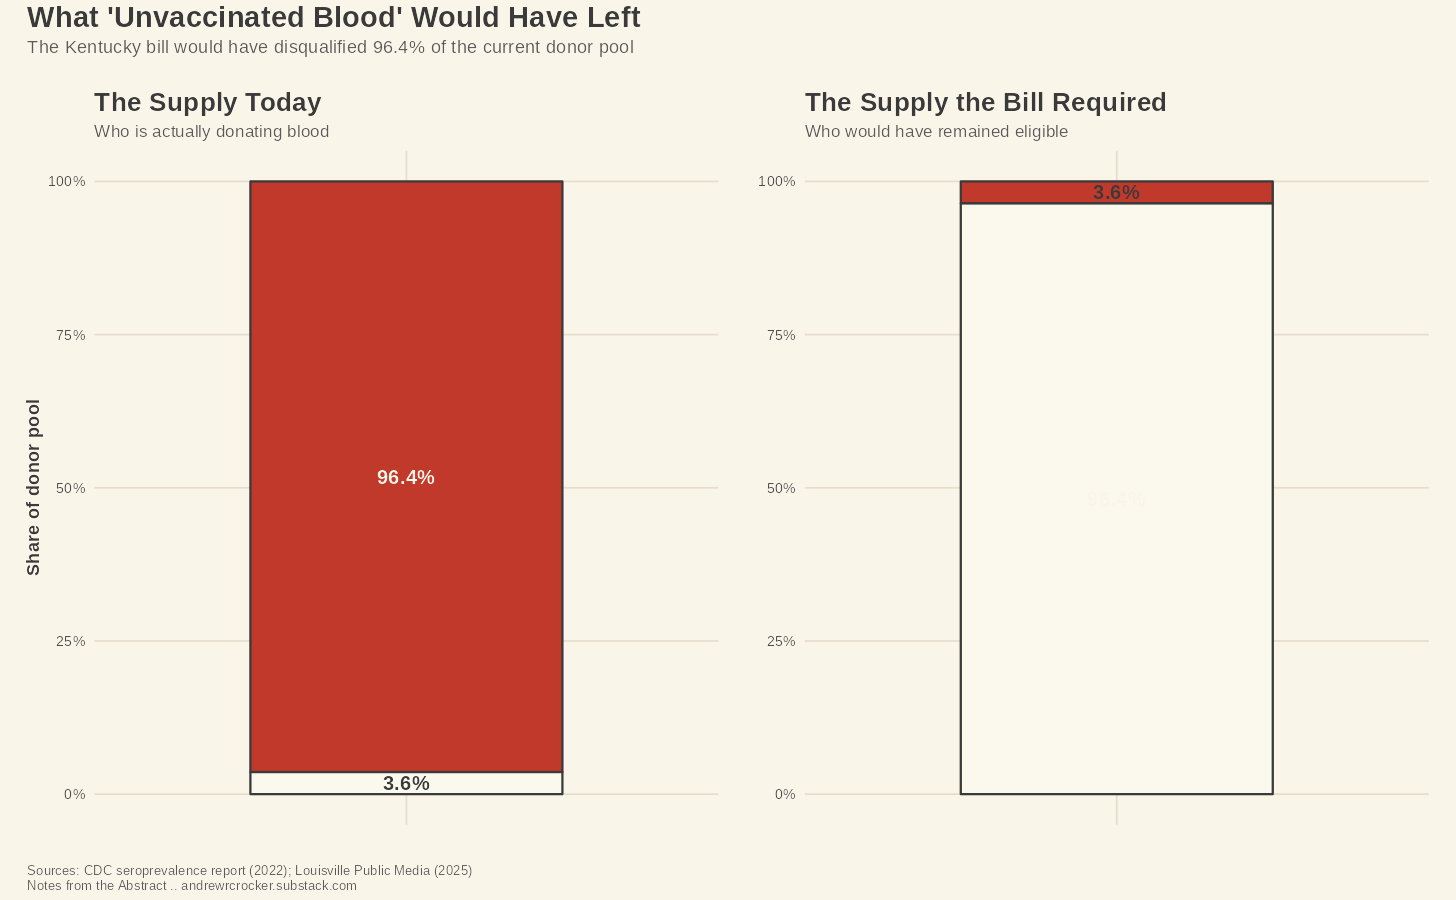
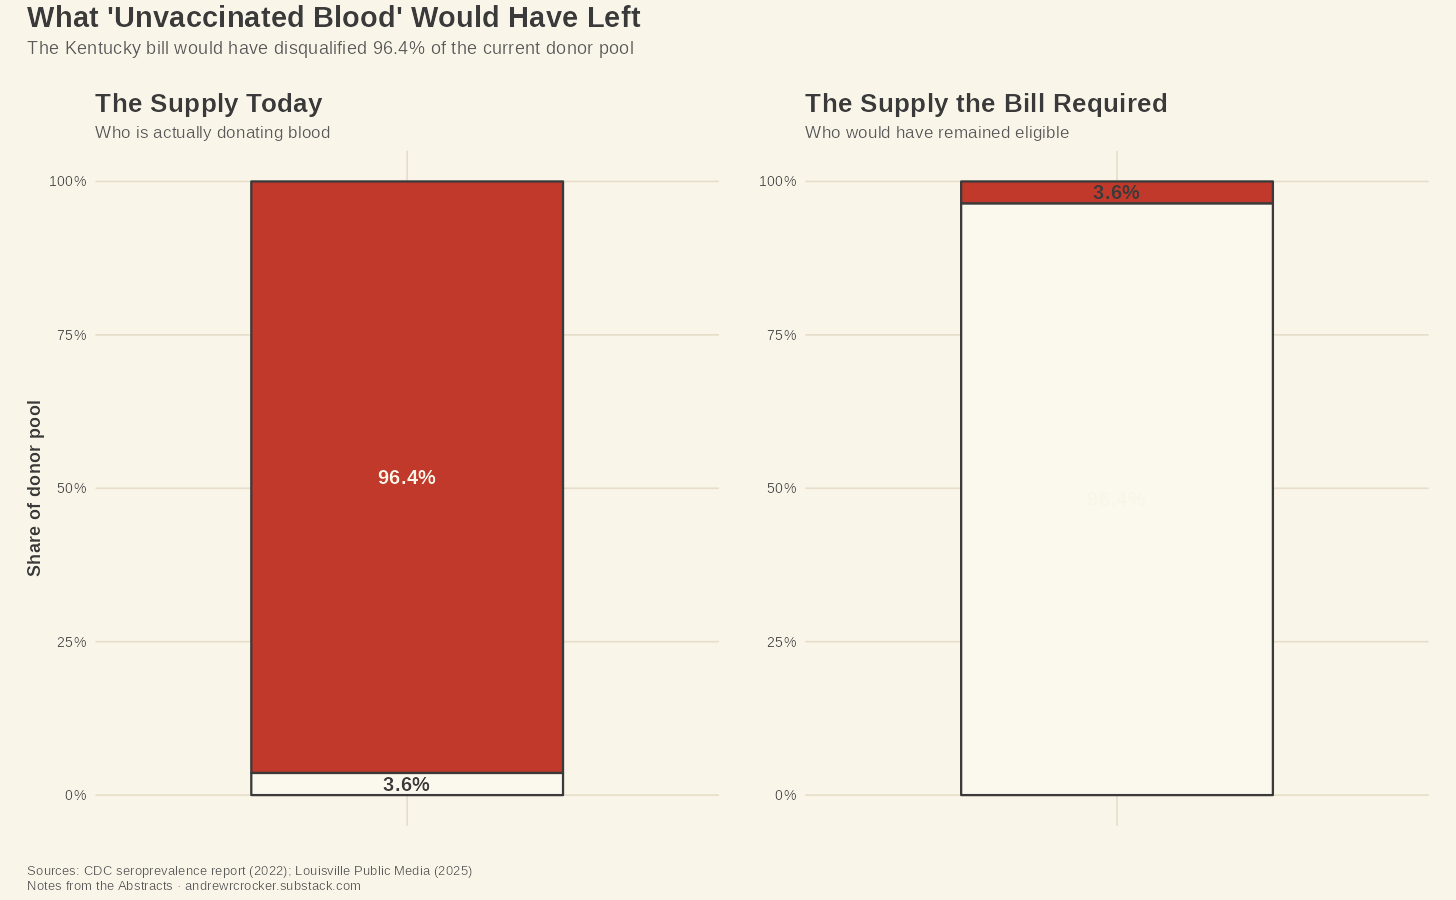
Fix blog name: Notes from the Abstracts (#1)

diff --git a/README.md b/README.md
@@ -1,6 +1,6 @@
 # Pure Blood — Chart Package
 
-R code and data supporting the *Notes from the Abstract* piece **"Pure Blood: How a belief the biology already disproved is draining the blood supply and disappearing from the record."**
+R code and data supporting the *Notes from the Abstracts* piece **"Pure Blood: How a belief the biology already disproved is draining the blood supply and disappearing from the record."**
 
 Published at [andrewrcrocker.substack.com](https://andrewrcrocker.substack.com)
 
